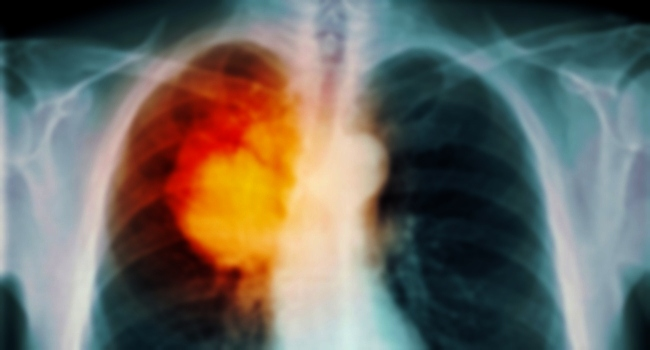
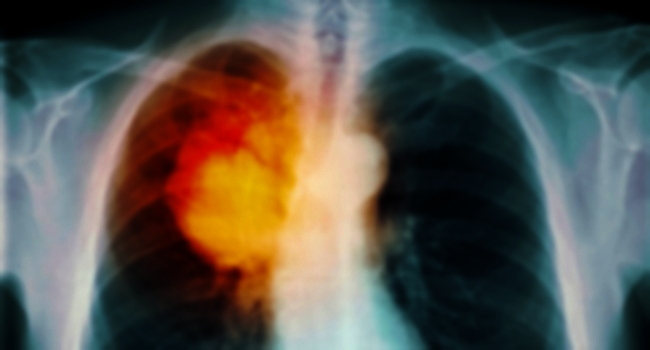
darkened img

diff --git a/main.css b/main.css
@@ -26,7 +26,7 @@ body{font-family: "Raleway", sans-serif}
 .masthead {
     min-height: 500px;
 
-    background-image: url('img/lungs-blurred.jpg');
+    background-image: url('img/lungs.jpg');
     background-repeat: no-repeat;
     /*background-attachment: fixed;*/
     background-position: top center;
